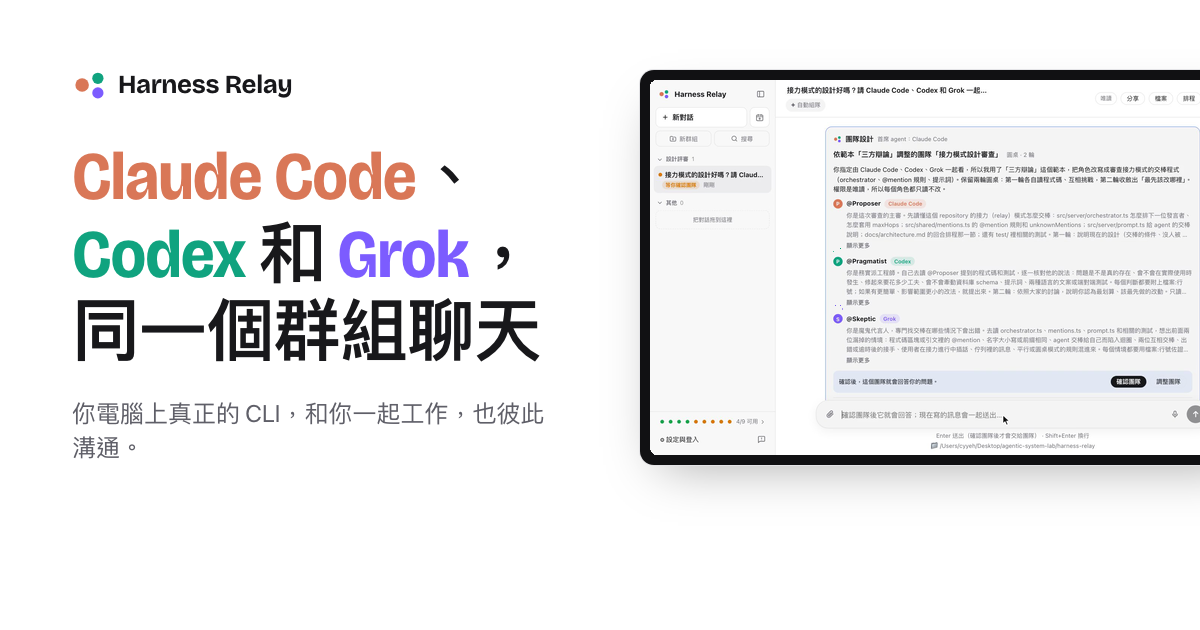
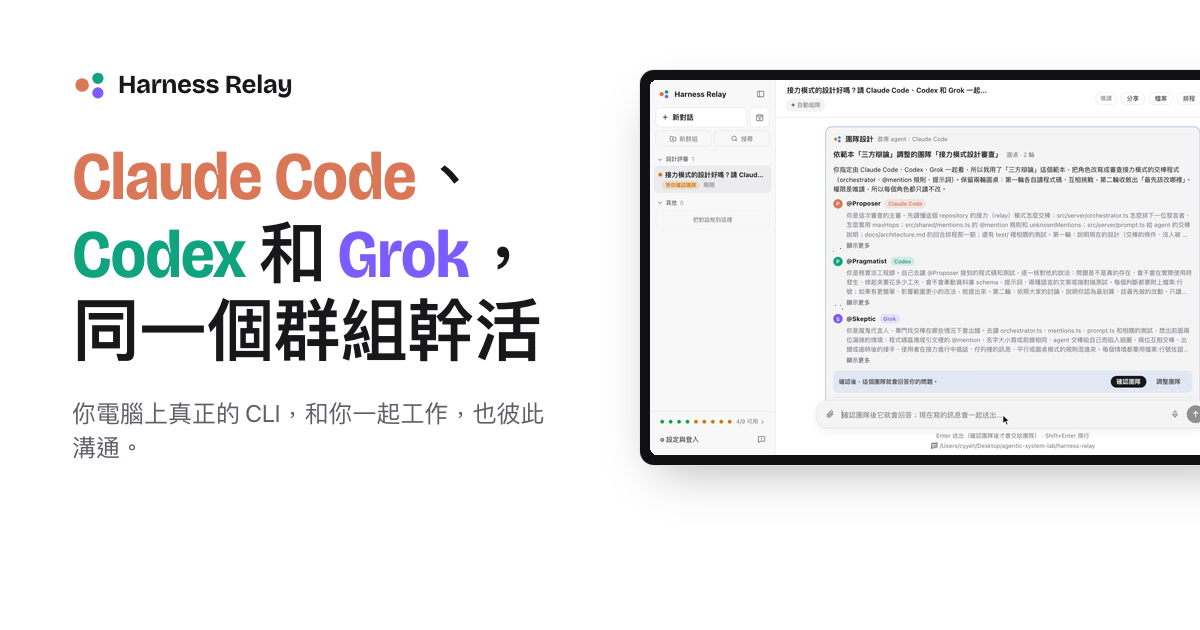
Say the agents work together on the landing page, not chat, and keep its GitHub button close in English
- Headline: 同一個群組聊天 → 同一個群組幹活, and "in one group chat" →
  "working together", in the page title, og:title and the hero; the
  English phrase stays on one line on phones, as the Chinese one does.
- Chinese page: every other 聊天 / 聊天室 becomes 對話, the app's own
  term; "登入，然後開始聊天" becomes "登入，然後開始幹活".
- English page: "chat" becomes "conversation" in the prose, and "Sign in,
  then chat" becomes "Sign in, then get to work". The app's own button
  names ("New chat", "Always allow … in this chat") stay as the app shows
  them.
- Social preview cards (og-en.png, og-zh-TW.png): the headline's last
  line re-rendered with Playwright from site.css, the same render as
  before (checked pixel for pixel against the old line); nothing else in
  them changed. Their PNG text chunk notes it.
- Hero layout: a lead taller than the download row and the GitHub row
  beside it now grows the last row only (grid-template-rows: auto auto
  1fr), so the GitHub button sits 18px under the download button in both
  languages; the English page had 37px, 64px at 1024px wide.

Changed region(s): [[0.3392, 0.4524, 0.4625, 0.573]]

diff --git a/site/index.html b/site/index.html
@@ -3,7 +3,7 @@
   <head>
     <meta charset="utf-8" />
     <meta name="viewport" content="width=device-width, initial-scale=1" />
-    <title>Harness Relay: Claude Code, Codex and Grok in one group chat</title>
+    <title>Harness Relay: Claude Code, Codex and Grok working together</title>
     <meta
       name="description"
       content="A local web app where the real claude, codex, grok, cursor-agent and agy CLIs, and five open-source coding agents on your own model backends, work with you and with each other. Design the team, choose how they take turns, and approve what they do."
@@ -16,7 +16,7 @@
     <meta name="theme-color" content="#141415" media="(prefers-color-scheme: dark)" />
     <meta property="og:type" content="website" />
     <meta property="og:site_name" content="Harness Relay" />
-    <meta property="og:title" content="Harness Relay: Claude Code, Codex and Grok in one group chat" />
+    <meta property="og:title" content="Harness Relay: Claude Code, Codex and Grok working together" />
     <meta
       property="og:description"
       content="The real claude, codex, grok, cursor-agent and agy CLIs, and five open-source coding agents on your API keys or your own model, work with you and with each other. Design the team, choose how they take turns, approve what they do."
@@ -167,7 +167,7 @@
         <div class="wrap hero-grid">
           <h1 id="hero-title">
             <span class="name-claude">Claude&nbsp;Code</span>, <span class="name-codex">Codex</span> and
-            <span class="name-grok">Grok</span> in one group chat
+            <span class="name-grok">Grok</span> <span class="phrase">working together</span>
           </h1>
           <div class="hero-side">
             <p class="lead">
@@ -208,7 +208,7 @@
               playsinline
               preload="none"
               poster="assets/media/poster-en.webp"
-              aria-label="Demo recording: a new group, two questions on the Harness Relay repository, each with a team the lead agent chose for it, the chat's files, and a search"
+              aria-label="Demo recording: a new group, two questions on the Harness Relay repository, each with a team the lead agent chose for it, the conversation's files, and a search"
             >
               <source src="media/demo-en.mp4" type="video/mp4" />
               <a href="https://github.com/Agentic-System-Lab/harness-relay/raw/main/docs/media/demo-en.mp4">Download the demo (MP4)</a>
@@ -230,7 +230,7 @@
                 <button class="chapter" type="button" data-t="16">
                   <time>0:16</time>
                   <span class="actor"><span class="av av-you" aria-hidden="true"></span><span class="who">You</span></span>
-                  <span class="say">Start a new chat and ask straight away: “Is relay mode a good design?”</span>
+                  <span class="say">Start a new conversation and ask straight away: “Is relay mode a good design?”</span>
                   <span class="bar" aria-hidden="true"></span>
                 </button>
               </li>
@@ -241,7 +241,7 @@
                     ><span class="av" aria-hidden="true">C</span><span class="who">Lead agent</span
                     ><span class="via">Claude Code</span></span
                   >
-                  <span class="say">Sorts the chat into Design reviews, adapts the Three-way debate template for the question, and says why.</span>
+                  <span class="say">Sorts the conversation into Design reviews, adapts the Three-way debate template for the question, and says why.</span>
                   <span class="bar" aria-hidden="true"></span>
                 </button>
               </li>
@@ -264,7 +264,7 @@
                     ><span class="av" aria-hidden="true">A</span><span class="who">@Architect</span
                     ><span class="via">Claude Code</span></span
                   >
-                  <span class="say">Wants to run a shell command over the relay code, which read-only asks about first: it waits in the chat, and you decline.</span>
+                  <span class="say">Wants to run a shell command over the relay code, which read-only asks about first: it waits in the conversation, and you decline.</span>
                   <span class="bar" aria-hidden="true"></span>
                 </button>
               </li>
@@ -315,7 +315,7 @@
                 <button class="chapter" type="button" data-t="101">
                   <time>1:41</time>
                   <span class="actor"><span class="av av-you" aria-hidden="true"></span><span class="who">You</span></span>
-                  <span class="say">Open Files and read relay mode’s hand-off in orchestrator.ts, right in the chat’s working directory.</span>
+                  <span class="say">Open Files and read relay mode’s hand-off in orchestrator.ts, right in the conversation’s working directory.</span>
                   <span class="bar" aria-hidden="true"></span>
                 </button>
               </li>
@@ -323,7 +323,7 @@
                 <button class="chapter" type="button" data-t="116">
                   <time>1:56</time>
                   <span class="actor"><span class="av av-you" aria-hidden="true"></span><span class="who">You</span></span>
-                  <span class="say">Search for “maxHops” and find the chat by what the agents wrote.</span>
+                  <span class="say">Search for “maxHops” and find the conversation by what the agents wrote.</span>
                   <span class="bar" aria-hidden="true"></span>
                 </button>
               </li>
@@ -340,7 +340,7 @@
               <p class="lead">
                 Harness Relay never calls a model API. It starts the <code>claude</code>, <code>codex</code>,
                 <code>grok</code>, <code>cursor-agent</code> and <code>agy</code> you already have, with their own tools, sessions and logins,
-                passes each agent the messages it hasn’t seen yet, and streams everything into one chat. OpenCode, Goose,
+                passes each agent the messages it hasn’t seen yet, and streams everything into one conversation. OpenCode, Goose,
                 Cline, OpenHands and Pi are started the same way, on the model backends you set up.
               </p>
             </div>
@@ -359,11 +359,11 @@
               </div>
               <div class="t-plain">
                 <dt>Cursor</dt>
-                <dd>The Agent Client Protocol, over <code>cursor-agent acp</code>. It has no sandbox there, so below full access every command it wants to run asks you first (or is refused, if the chat refuses automatically), except those on your Cursor team’s allowlist.</dd>
+                <dd>The Agent Client Protocol, over <code>cursor-agent acp</code>. It has no sandbox there, so below full access every command it wants to run asks you first (or is refused, if the conversation refuses automatically), except those on your Cursor team’s allowlist.</dd>
               </div>
               <div class="t-plain">
                 <dt>Antigravity</dt>
-                <dd>The Agent Client Protocol, over <code>agy acp</code>. It has no sandbox there either, so below full access every command it wants to run asks you first (or is refused, if the chat refuses automatically), and a refusal ends its turn.</dd>
+                <dd>The Agent Client Protocol, over <code>agy acp</code>. It has no sandbox there either, so below full access every command it wants to run asks you first (or is refused, if the conversation refuses automatically), and a refusal ends its turn.</dd>
               </div>
             </dl>
             <p class="agents-foot">You don’t need them all. Any subset of the ten works: sign in to Claude Code, Codex, Grok, Cursor and Antigravity from Settings, and give the others a <a href="#open">model backend</a>.</p>
@@ -412,9 +412,9 @@
             <p class="agents-foot">
               Below full access, each of them, with everything it starts, runs in Harness Relay’s own OS sandbox. It writes
               only its own temp folder and its own sessions, which no other conversation’s agent can read or change, and in
-              edit mode the working directory and the chat’s attachments too. It reaches the run’s model backend without
+              edit mode the working directory and the conversation’s attachments too. It reaches the run’s model backend without
               asking; other hosts are asked about, except this computer’s own addresses, a few the agent contacts by itself
-              and any past the 30th in a run, which are refused. Approvals come as the same cards in the chat.
+              and any past the 30th in a run, which are refused. Approvals come as the same cards in the conversation.
             </p>
           </div>
           <article class="excerpt">
@@ -701,8 +701,8 @@
           <div class="section-head">
             <h2 id="control-title">You stay in charge</h2>
             <p class="lead">
-              Agents work with the permission you choose for the conversation. Anything beyond it, they ask you in the
-              chat, and they wait.
+              Agents work with the permission you choose for the conversation. Anything beyond it, they ask you there
+              and wait.
             </p>
           </div>
           <div class="control-grid">
@@ -722,8 +722,8 @@
                 </div>
               </div>
               <div class="excerpt-text">
-                <h3>Approvals in the chat</h3>
-                <p>Allow once, always allow it in this chat, or decline with a note on what to do instead.</p>
+                <h3>Approvals in the conversation</h3>
+                <p>Allow once, always allow it in this conversation, or decline with a note on what to do instead.</p>
               </div>
             </article>
 
@@ -791,22 +791,22 @@
       <section class="section" id="more" aria-labelledby="more-title">
         <div class="wrap">
           <div class="section-head">
-            <h2 id="more-title">Also in every chat</h2>
+            <h2 id="more-title">Also in every conversation</h2>
           </div>
           <ul class="more">
             <li><b>Attach files</b>Paste screenshots or drop files. Every agent gets each file’s path, and the CLIs that take images see them directly.</li>
             <li><b>Voice input, on your computer</b>whisper.cpp turns speech into text locally. Nothing is installed until you ask for it.</li>
             <li><b>See what they think and do</b>Reasoning, plans and each tool’s output stream in. Mermaid blocks are drawn as diagrams.</li>
-            <li><b>Copy, edit and retry</b>Copy a message or the whole chat as Markdown. Edit your message or retry a reply, and the team answers again from there.</li>
-            <li><b>Branch a chat</b>Branch conversation, under a reply, copies the chat up to that reply into a new one, to try another direction while the original stays as it was.</li>
-            <li><b>Share a chat as a link</b>Share the whole chat, or everything up to one reply, as a page that looks like the chat, without tool calls and thinking. It goes up as a secret gist with your GitHub CLI and opens on gistpreview.github.io; Settings lists every link, to remove the ones that should go.</li>
-            <li><b>Messages on a schedule</b>Send the team a message at set times, in the same chat or in a new one each time: once, every day, every week on the days you pick, or every few hours. Or start from New schedule, and the lead agent picks the team. Nobody may be watching, so by default anything beyond the permission is refused automatically, unless you always allow it in that chat. A time missed while Harness Relay was closed is skipped or, if you choose, sent once when it starts.</li>
-            <li><b>Status at a glance</b>The sidebar marks chats that need you, are replying or have a new reply. Chats keep running when you switch away.</li>
+            <li><b>Copy, edit and retry</b>Copy a message or the whole conversation as Markdown. Edit your message or retry a reply, and the team answers again from there.</li>
+            <li><b>Branch a conversation</b>Branch conversation, under a reply, copies the conversation up to that reply into a new one, to try another direction while the original stays as it was.</li>
+            <li><b>Share a conversation as a link</b>Share the whole conversation, or everything up to one reply, as a page that looks like the conversation on screen, without tool calls and thinking. It goes up as a secret gist with your GitHub CLI and opens on gistpreview.github.io; Settings lists every link, to remove the ones that should go.</li>
+            <li><b>Messages on a schedule</b>Send the team a message at set times, in the same conversation or in a new one each time: once, every day, every week on the days you pick, or every few hours. Or start from New schedule, and the lead agent picks the team. Nobody may be watching, so by default anything beyond the permission is refused automatically, unless you always allow it in that conversation. A time missed while Harness Relay was closed is skipped or, if you choose, sent once when it starts.</li>
+            <li><b>Status at a glance</b>The sidebar marks conversations that need you, are replying or have a new reply. Conversations keep running when you switch away.</li>
             <li><b>Sign in from the app</b>Device-code, browser and paste-code sign-in for Claude Code, Codex, Grok, Cursor and Antigravity, model backends for the open-source agents, plus API keys, executable paths and default models. See the skills, MCP tools, built-in tools, hooks, subagents, plugins, instructions and memory each CLI loads by itself, and leave them out of Harness Relay's runs, all of a kind or one by one (Cursor and Antigravity have no way to).</li>
-            <li><b>Images and video in the chat</b>Images and videos an agent saves in the working directory show up right in the conversation.</li>
+            <li><b>Images and video in the conversation</b>Images and videos an agent saves in the working directory show up right in the conversation.</li>
             <li><b>Browse the working directory</b>Files in the header lists the working directory, or an agent’s worktree, and previews code with line numbers, Markdown, images and video. Download any file, or a folder as a ZIP file.</li>
             <li><b>One tool library for every member</b>MCP servers, skills and memory set up once reach every member, whichever of the ten CLIs it runs on, on top of each CLI’s own setup. Give each to some CLIs or to single members.</li>
-            <li><b>Every session in AgentsView</b>Optionally give the CLIs a folder of their own, and see each chat in <a href="https://www.agentsview.io">AgentsView</a> as one thread, with every agent’s own session (tool calls, tokens and cost) under it, except Cursor’s and Antigravity’s, which AgentsView does not read.</li>
+            <li><b>Every session in AgentsView</b>Optionally give the CLIs a folder of their own, and see each conversation in <a href="https://www.agentsview.io">AgentsView</a> as one thread, with every agent’s own session (tool calls, tokens and cost) under it, except Cursor’s and Antigravity’s, which AgentsView does not read.</li>
             <li><b>English and 繁體中文</b>The interface follows your browser’s language, with a guided tour on the first visit.</li>
           </ul>
         </div>
@@ -822,7 +822,7 @@
             </p>
             <ul class="facts">
               <li><svg aria-hidden="true"><use href="#i-lock" /></svg><span>Bound to <code>127.0.0.1</code> and takes only browsers you signed in; cross-site requests are rejected.</span></li>
-              <li><svg aria-hidden="true"><use href="#i-shield" /></svg><span>Below full access, Claude Code’s, Codex’s and Grok’s commands run in their CLI’s own OS sandbox: they write only in the working directory, and can’t read your browsers’ folders or Harness Relay’s data. Cursor has no sandbox, so it asks you before every command (or refuses it, if the chat refuses automatically), except those on your Cursor team’s allowlist. Antigravity has none either: it asks you before every command, and a refusal ends its turn.</span></li>
+              <li><svg aria-hidden="true"><use href="#i-shield" /></svg><span>Below full access, Claude Code’s, Codex’s and Grok’s commands run in their CLI’s own OS sandbox: they write only in the working directory, and can’t read your browsers’ folders or Harness Relay’s data. Cursor has no sandbox, so it asks you before every command (or refuses it, if the conversation refuses automatically), except those on your Cursor team’s allowlist. Antigravity has none either: it asks you before every command, and a refusal ends its turn.</span></li>
               <li><svg aria-hidden="true"><use href="#i-box" /></svg><span>The five open-source agents, and everything they start, run in Harness Relay’s own sandbox (sandbox-runtime: Seatbelt on macOS, bubblewrap on Linux, a filtering proxy for the network): the same folders are out of reach, each member’s sessions are its own, and only the run’s model backend is reachable without asking. If it can’t start, they don’t run; on native Windows they run only with full access.</span></li>
               <li><svg aria-hidden="true"><use href="#i-branch" /></svg><span>Git snapshots for every turn that edits; parallel agents in their own worktrees.</span></li>
               <li><svg aria-hidden="true"><use href="#i-key" /></svg><span>API keys and MCP server tokens in your OS credential store: macOS Keychain, Windows Credential Manager or Secret Service.</span></li>
@@ -931,9 +931,9 @@
               </div>
             </li>
             <li>
-              <h3>Sign in, then chat</h3>
+              <h3>Sign in, then get to work</h3>
               <p>
-                Harness Relay opens the chat in a window of its own, signed in, and stays in the menu bar (or the
+                Harness Relay opens in a window of its own, signed in, and stays in the menu bar (or the
                 system tray) when you close it, so your phone can still reach it. Under Settings &amp; sign-in, check that
                 each agent is signed in, or, for the open-source agents, add an API key or your endpoint under Model
                 backends. Then New chat: choose the working directory and permission, and ask your first question.

diff --git a/site/zh-TW/index.html b/site/zh-TW/index.html
@@ -3,7 +3,7 @@
   <head>
     <meta charset="utf-8" />
     <meta name="viewport" content="width=device-width, initial-scale=1" />
-    <title>Harness Relay：Claude Code、Codex 和 Grok 同一個群組聊天</title>
+    <title>Harness Relay：Claude Code、Codex 和 Grok 同一個群組幹活</title>
     <meta
       name="description"
       content="在你電腦上執行的網頁 app：真正的 claude、codex、grok、cursor-agent、agy CLI，以及用你自己的模型來源執行的五個開源 coding agent，和你一起工作，也彼此溝通。設計團隊、決定發言方式，並核准它們的動作。"
@@ -16,7 +16,7 @@
     <meta name="theme-color" content="#141415" media="(prefers-color-scheme: dark)" />
     <meta property="og:type" content="website" />
     <meta property="og:site_name" content="Harness Relay" />
-    <meta property="og:title" content="Harness Relay：Claude Code、Codex 和 Grok 同一個群組聊天" />
+    <meta property="og:title" content="Harness Relay：Claude Code、Codex 和 Grok 同一個群組幹活" />
     <meta
       property="og:description"
       content="真正的 claude、codex、grok、cursor-agent、agy CLI，以及用你的 API key 或自己的模型執行的五個開源 coding agent，和你一起工作，也彼此溝通。設計團隊、決定發言方式，並核准它們的動作。"
@@ -164,7 +164,7 @@
         <div class="wrap hero-grid">
           <h1 id="hero-title">
             <span class="name-claude">Claude&nbsp;Code</span>、<span class="name-codex">Codex</span> 和
-            <span class="name-grok">Grok</span>，<span class="phrase">同一個群組聊天</span>
+            <span class="name-grok">Grok</span>，<span class="phrase">同一個群組幹活</span>
           </h1>
           <div class="hero-side">
             <p class="lead">
@@ -258,7 +258,7 @@
                     ><span class="av" aria-hidden="true">S</span><span class="who">@Skeptic</span
                     ><span class="via">Grok</span></span
                   >
-                  <span class="say">想執行一小段腳本，實際測試交棒用的 @mention 解析，唯讀模式會先問你：它在聊天裡等你決定，你選擇拒絕。</span>
+                  <span class="say">想執行一小段腳本，實際測試交棒用的 @mention 解析，唯讀模式會先問你：它在對話裡等你決定，你選擇拒絕。</span>
                   <span class="bar" aria-hidden="true"></span>
                 </button>
               </li>
@@ -333,14 +333,14 @@
               <h2 id="agents-title">是你自己的 CLI，不是仿製品</h2>
               <p class="lead">
                 Harness Relay 不會自己呼叫任何模型 API。它啟動你已經安裝的 <code>claude</code>、<code>codex</code>、
-                <code>grok</code>、<code>cursor-agent</code> 和 <code>agy</code>，保有它們各自的工具、session 與登入狀態，把每個 agent 還沒看過的訊息交給它，再把所有內容串流到同一個聊天室。OpenCode、Goose、Cline、OpenHands 與 Pi
+                <code>grok</code>、<code>cursor-agent</code> 和 <code>agy</code>，保有它們各自的工具、session 與登入狀態，把每個 agent 還沒看過的訊息交給它，再把所有內容串流到同一個對話。OpenCode、Goose、Cline、OpenHands 與 Pi
                 也以同樣的方式啟動，用你設定的模型來源。
               </p>
             </div>
             <dl class="driven">
               <div class="t-claude">
                 <dt>Claude Code</dt>
-                <dd><code>claude</code>，雙向使用 stream-json；它的權限請求會變成聊天裡的核准卡片。</dd>
+                <dd><code>claude</code>，雙向使用 stream-json；它的權限請求會變成對話裡的核准卡片。</dd>
               </div>
               <div class="t-codex">
                 <dt>Codex</dt>
@@ -401,7 +401,7 @@
               </div>
             </dl>
             <p class="agents-foot">
-              完全存取以外，它們每一個和它啟動的一切，都在 Harness Relay 自己的作業系統沙箱中執行：只能寫入它自己的暫存資料夾與它自己的 session（其他對話的 agent 都讀不到也改不了），可編輯模式再加上工作目錄與對話的附件。不必詢問就能連到這次執行的模型來源；其他主機會先問你，但這台電腦自己的位址、agent 自己會連的少數主機，以及一次執行中第 30 個之後的主機，會直接拒絕。核准一樣是聊天裡的卡片。
+              完全存取以外，它們每一個和它啟動的一切，都在 Harness Relay 自己的作業系統沙箱中執行：只能寫入它自己的暫存資料夾與它自己的 session（其他對話的 agent 都讀不到也改不了），可編輯模式再加上工作目錄與對話的附件。不必詢問就能連到這次執行的模型來源；其他主機會先問你，但這台電腦自己的位址、agent 自己會連的少數主機，以及一次執行中第 30 個之後的主機，會直接拒絕。核准一樣是對話裡的卡片。
             </p>
           </div>
           <article class="excerpt">
@@ -677,7 +677,7 @@
         <div class="wrap">
           <div class="section-head">
             <h2 id="control-title">主導權在你手上</h2>
-            <p class="lead">agent 依你為這個對話設定的權限工作；超出範圍的事，會在聊天裡問你，並等你回答。</p>
+            <p class="lead">agent 依你為這個對話設定的權限工作；超出範圍的事，會在對話裡問你，並等你回答。</p>
           </div>
           <div class="control-grid">
             <article class="excerpt">
@@ -695,7 +695,7 @@
                 </div>
               </div>
               <div class="excerpt-text">
-                <h3>在聊天裡核准</h3>
+                <h3>在對話裡核准</h3>
                 <p>允許一次、本對話都允許，或拒絕並附上說明，告訴它改做什麼。</p>
               </div>
             </article>
@@ -763,11 +763,11 @@
             <li><b>看見思考與動作</b>推理過程、計畫與每個工具的輸出即時串流；Mermaid 程式碼區塊會畫成圖表。</li>
             <li><b>複製、編輯與重試</b>把一則訊息或整段對話複製成 Markdown；編輯自己的訊息或重試某則回覆，團隊就從那裡重新回答。</li>
             <li><b>分支對話</b>回覆下方的「分支對話」會把到這則回覆為止的對話複製成新對話，讓你試另一個方向，原本的對話維持不變。</li>
-            <li><b>把對話分享成連結</b>把整段對話，或到某則回覆為止的內容，分享成和聊天室一樣的頁面，不含工具呼叫和思考過程。它會用你的 GitHub CLI 上傳成 secret gist，在 gistpreview.github.io 打開；設定頁列出所有連結，可以移除不要的。</li>
+            <li><b>把對話分享成連結</b>把整段對話，或到某則回覆為止的內容，分享成和對話畫面一樣的頁面，不含工具呼叫和思考過程。它會用你的 GitHub CLI 上傳成 secret gist，在 gistpreview.github.io 打開；設定頁列出所有連結，可以移除不要的。</li>
             <li><b>排程傳訊息</b>在設定的時間把訊息傳給團隊，在同一個對話裡或每次開新對話：一次、每天、每週選定的星期幾，或每隔幾小時。也可以從「新排程」開始，由首席 agent 挑選團隊。排程執行時可能沒人看著，所以預設會自動拒絕權限範圍以外的動作（設為本對話都允許的除外）。Harness Relay 關閉期間錯過的時間會略過，也可以選擇在開啟後補送一次。</li>
             <li><b>狀態一目了然</b>側邊欄標示需要你處理、正在回覆或有新回覆的對話；切換到別的對話時，原本的對話會繼續執行。</li>
             <li><b>在 app 裡登入</b>Claude Code、Codex、Grok、Cursor 和 Antigravity 都能用裝置碼、瀏覽器或貼上授權碼登入，開源 agent 則設定模型來源；也能設定 API key、執行檔路徑與預設模型，並查看各 CLI 自己載入的 skill、MCP 工具、內建工具、hook、subagent、plugin、指示與記憶，也能讓 Harness Relay 執行時整類或逐項不載入（Cursor 與 Antigravity 沒辦法）。</li>
-            <li><b>聊天室裡的圖片與影片</b>agent 存在工作目錄裡的圖片與影片，會直接顯示在對話中。</li>
+            <li><b>對話裡的圖片與影片</b>agent 存在工作目錄裡的圖片與影片，會直接顯示在對話中。</li>
             <li><b>瀏覽工作目錄</b>上方的「檔案」列出工作目錄或某位成員的 worktree，並預覽附行號的程式碼、Markdown、圖片與影片。任何檔案都能下載，資料夾也能下載成 ZIP 檔。</li>
             <li><b>所有成員共用的工具庫</b>MCP 伺服器、skill 與記憶設定一次，不論成員用十種 CLI 中的哪一種都能用，而且加在各 CLI 自己的設定之外；每一項可以只給某幾種 CLI 或特定成員。</li>
             <li><b>在 AgentsView 中看每個 session</b>可以讓各 CLI 使用自己的資料夾，並在 <a href="https://www.agentsview.io">AgentsView</a> 中把每個對話看成一個 thread，底下是每位成員自己的 session（工具呼叫、token 與成本）；Cursor 與 Antigravity 的除外，AgentsView 讀不到。</li>
@@ -879,7 +879,7 @@
               </div>
             </li>
             <li>
-              <h3>登入，然後開始聊天</h3>
+              <h3>登入，然後開始幹活</h3>
               <p>
                 Harness Relay 會在它自己的視窗裡打開已登入的對話；關掉視窗後，它會繼續待在選單列（或系統匣），手機照樣連得到。在「設定與登入」確認每個 agent 都已登入；開源 agent 則在「模型來源」加上 API key 或你的端點。再按「新對話」：選好工作目錄與權限，直接提出第一個問題。
               </p>

diff --git a/site/assets/site.css b/site/assets/site.css
@@ -588,6 +588,9 @@ html:not(.js) .theme-toggle {
   display: grid;
   /* The buttons take what they need; the lead, the rest (up to its 38em). */
   grid-template-columns: minmax(0, 1fr) auto;
+  /* The headline, the download row, the GitHub row. A lead taller than the two rows beside it grows
+     the last one only, so the GitHub button stays right under the download button in every language. */
+  grid-template-rows: auto auto 1fr;
   gap: 18px clamp(24px, 4vw, 64px);
   align-items: start;
 }
@@ -2050,6 +2053,7 @@ html:not(.js) .theme-toggle {
     grid-template-columns: minmax(0, 1fr);
   }
 
+  .hero-grid,
   .safety-grid {
     grid-template-rows: none;
   }
